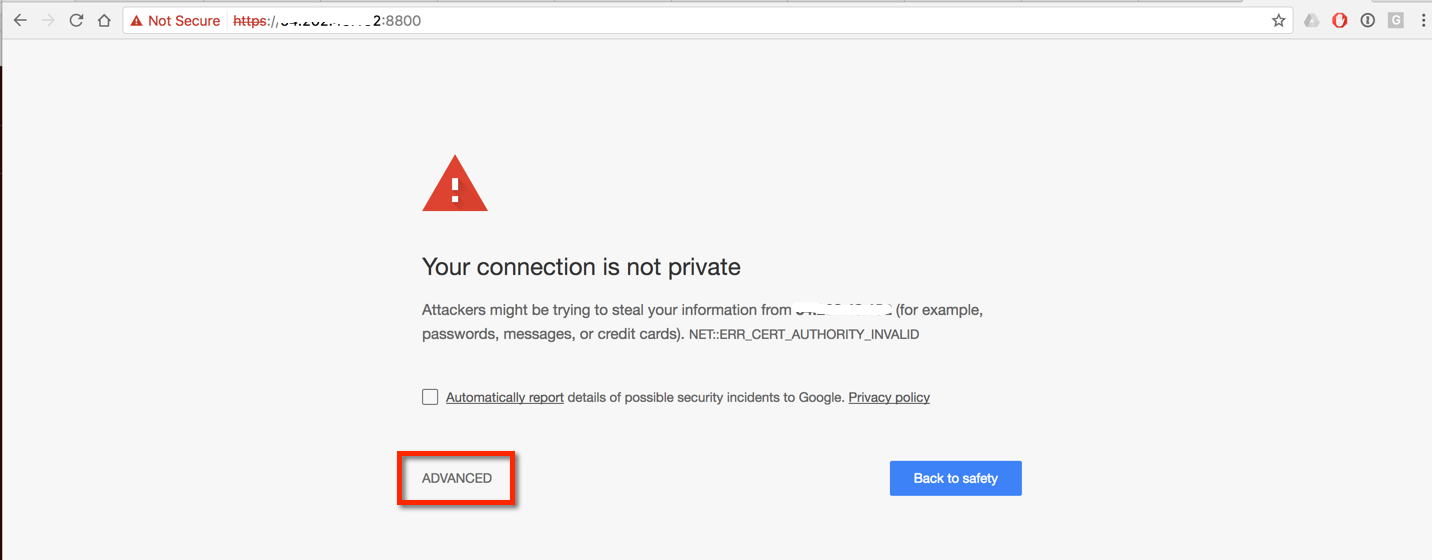
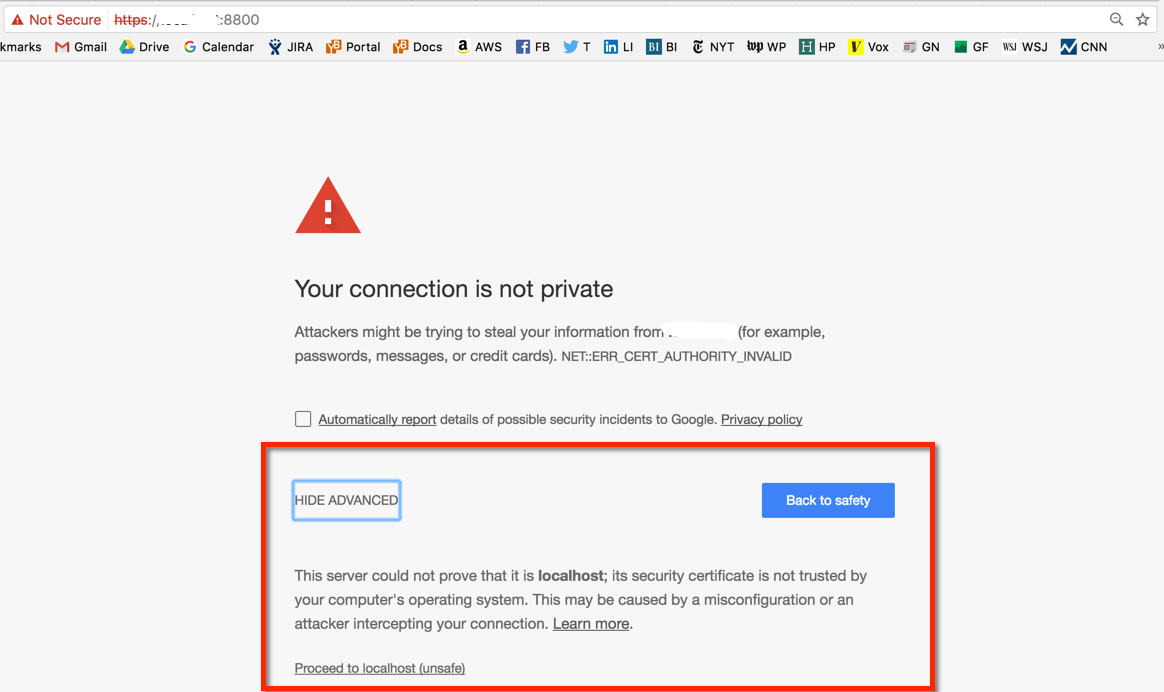
admin section updated

Changed region(s): [[0.2165, 0.2429, 0.8351, 1.0], [0.0, 0.0, 1.0, 0.0911]]

diff --git a/docs/content/admin/index.md b/docs/content/admin/index.md
@@ -6,19 +6,49 @@ weight: 20
 
 ## Register customer
 
+Go to [http://yugaware-host-public-ip/register] (http://yugaware-host-public-ip/register) to register a customer (aka tenant) account. Note that by default YugaWare runs as a single-tenant application.
+
 ![Register](/images/register.png)
+
+After clicking Submit, you will be automatically logged into YugaWare.
 
 ## Login and change profile
 
+By default, [http://yugaware-host-public-ip](http://yugaware-host-public-ip) redirects to [http://yugaware-host-public-ip/login](http://yugaware-host-public-ip/login). Login to the application using the credentials you had provided during the [Register customer](/admin/#register-customer) step.
+
 ![Login](/images/login.png)
+
+By clicking on the top right dropdown or going directly to [http://yugaware-host-public-ip/profile](http://yugaware-host-public-ip/profile), you can change the profile of the customer provided during the [Register customer](/admin/#register-customer) step.
 
 ![Profile](/images/profile.png)
 
 ## Configure cloud providers
 
+If no cloud providers are configured yet, the main Dashboard page highlights the need to create at least 1 cloud provider.
+
+![Configure Cloud Provider](/images/configure-cloud-provider.png)
+
+### Amazon Web Services
+
+YugaWare ensures that YugaByte instances run inside your own AWS account and are secured by a dedicated VPC and Key Pair. After you provide your [AWS Access Key ID and Secret Key](http://docs.aws.amazon.com/general/latest/gr/managing-aws-access-keys.html), YugaWare invokes AWS APIs to perform the following actions. Note that the AWS Account Name should be unique for each instance of YugaWare integrating with a given AWS Account.
+
+1. Retrieves the regions/AZs as well as the available instance types configured for this AWS account and initializes it's own Amazon cloud provider.
+
+2. Creates a new [AWS Key Pair](s://docs.aws.amazon.com/AWSEC2/latest/UserGuide/ec2-key-pairs.html) to be used to SSH into the YugaByte instances. The private key will be available for download later from the YugaWare UI.
+
+3. Creates a new [AWS VPC](https://docs.aws.amazon.com/AWSEC2/latest/UserGuide/using-vpc.html) for YugaByte instances and then peers them with YugaWare's own VPC
+
+![Configure AWS](/images/configure-aws-1.png)
+
+![AWS Configured Successfully](/images/configure-aws-2.png)
+
+### Google Cloud Platform
+
+### Docker Platform
+
+### On-Premises Data Centers
 
 ## Create universe
-
 
 ## Expand or shrink universe
 

diff --git a/docs/README.md b/docs/README.md
@@ -6,9 +6,8 @@ YugaByte Product Documentation
 
 ### What is this repository for? ###
 
-* Quick summary
 
-Our docs are based on the Hugo framework and using the Material Docs theme
+Our docs are based on the Hugo framework and are using the Material Docs theme
 
 ** Hugo framework: http://gohugo.io/overview/introduction/
 
@@ -16,51 +15,24 @@ Our docs are based on the Hugo framework and using the Material Docs theme
 
 ** Example of Material docs theme: http://themes.gohugo.io/theme/material-docs/
 
-* Version
-* [Learn Markdown](https://bitbucket.org/tutorials/markdowndemo)
 
 ### How do I get set up? ###
 
-* Summary of set up
 
 On Mac OS X
 
 ```
-brew update && brew install hugo
-```
-
-Detailed installation instructions: http://gohugo.io/overview/installing/
-
-* Configuration
-None
-
-* Dependencies
-None
-
-* Database configuration
-None
-
-* How to run tests
-
-clone the docs project into /code directory
-
-run the following to start a high performance web server that continuously watches the entire docs directory
-
-```
+cd ~/code
+git clone git@bitbucket.org:yugabyte/docs.git
+cd docs
+brew update
+brew install hugo
 hugo server
 ```
 
-Go to [http://localhost:1313/] (http://localhost:1313/)to see the docs
+The last command above starts high performance web server that continuously watches the entire docs directory. Go to [http://localhost:1313/](http://localhost:1313/)to see the docs.
 
-* Deployment instructions
+Simply running "hugo" will create a directory called public that has all the html content necessary to deploy to production behind an existing web server.
 
-### Contribution guidelines ###
-
-* Writing tests
-* Code review
-* Other guidelines
-
-### Who do I talk to? ###
-
-* Repo owner or admin
-* Other community or team contact
+Detailed installation instructions: http://gohugo.io/overview/installing/
+Detailed usage instructions: http://gohugo.io/overview/usage/

diff --git a/docs/content/get-started/index.md b/docs/content/get-started/index.md
@@ -70,7 +70,9 @@ You should see the following output
 
 ### Configuring Replicated for YugaWare
 
-Launch Replicated UI by going to [http://host-public-ip:8800] (http://host-public-ip:8800). The browser warning shown next states that the connection to the server is not private. We will adress this warning as soon as we setup HTTPS for the Replicated admin console in the next step. Click ADVANCED to bypass this warning and go to the Replicated admin console.
+Launch Replicated UI by going to [http://yugaware-host-public-ip:8800] (http://yugaware-host-public-ip:8800). The warning shown next states that the connection to the server is not private (yet). We will adress this warning as soon as we setup HTTPS for the Replicated admin console in the next step. Click Continue to Setup and then ADVANCED to bypass this warning and go to the Replicated admin console.
+
+![Replicated Browser TLS](/images/replicated-browser-tls.png)
 
 ![Replicated SSL warning](/images/replicated-warning.png)
 
@@ -108,7 +110,7 @@ All the containers powering the YugaWare application will be downloaded from the
 
 ![Replicated Dashboard](/images/replicated-dashboard.png)
 
-After starting the YugaWare application, you can register a new customer in YugaWare by following the instructions in the [Admin](/http://localhost:1313/admin/#register-customer) section.
+After starting the YugaWare application, you can register a new customer in YugaWare by following the instructions in the [Admin] (/admin/#register-customer) section.
 
 ## Backup
 
